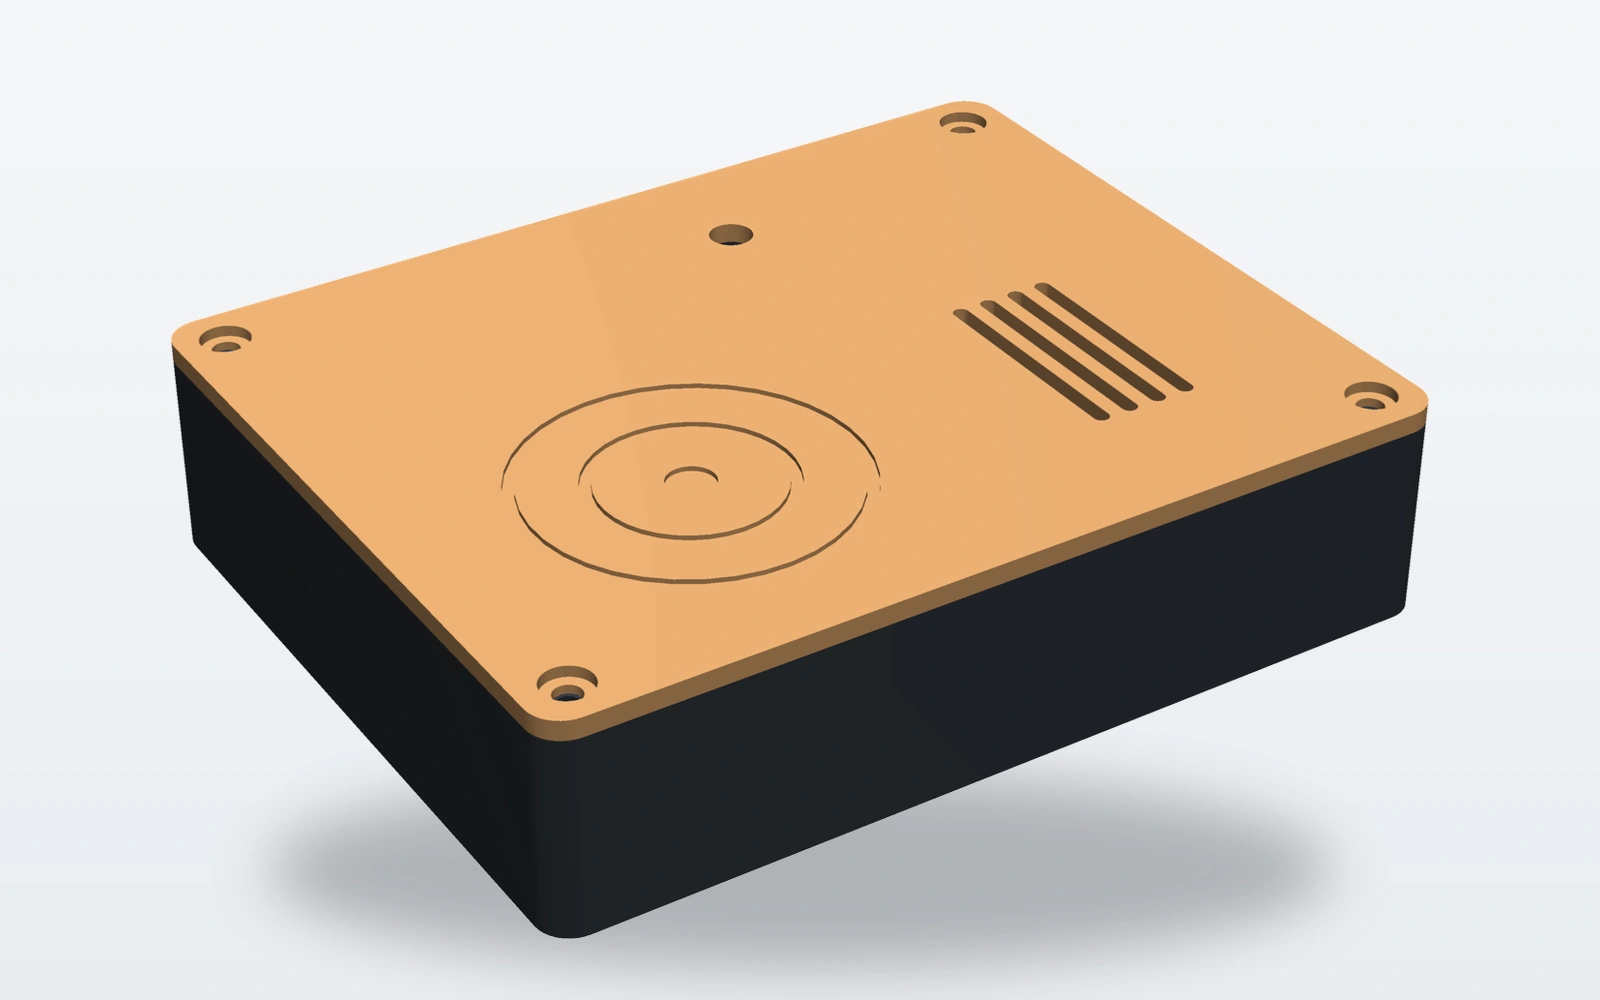
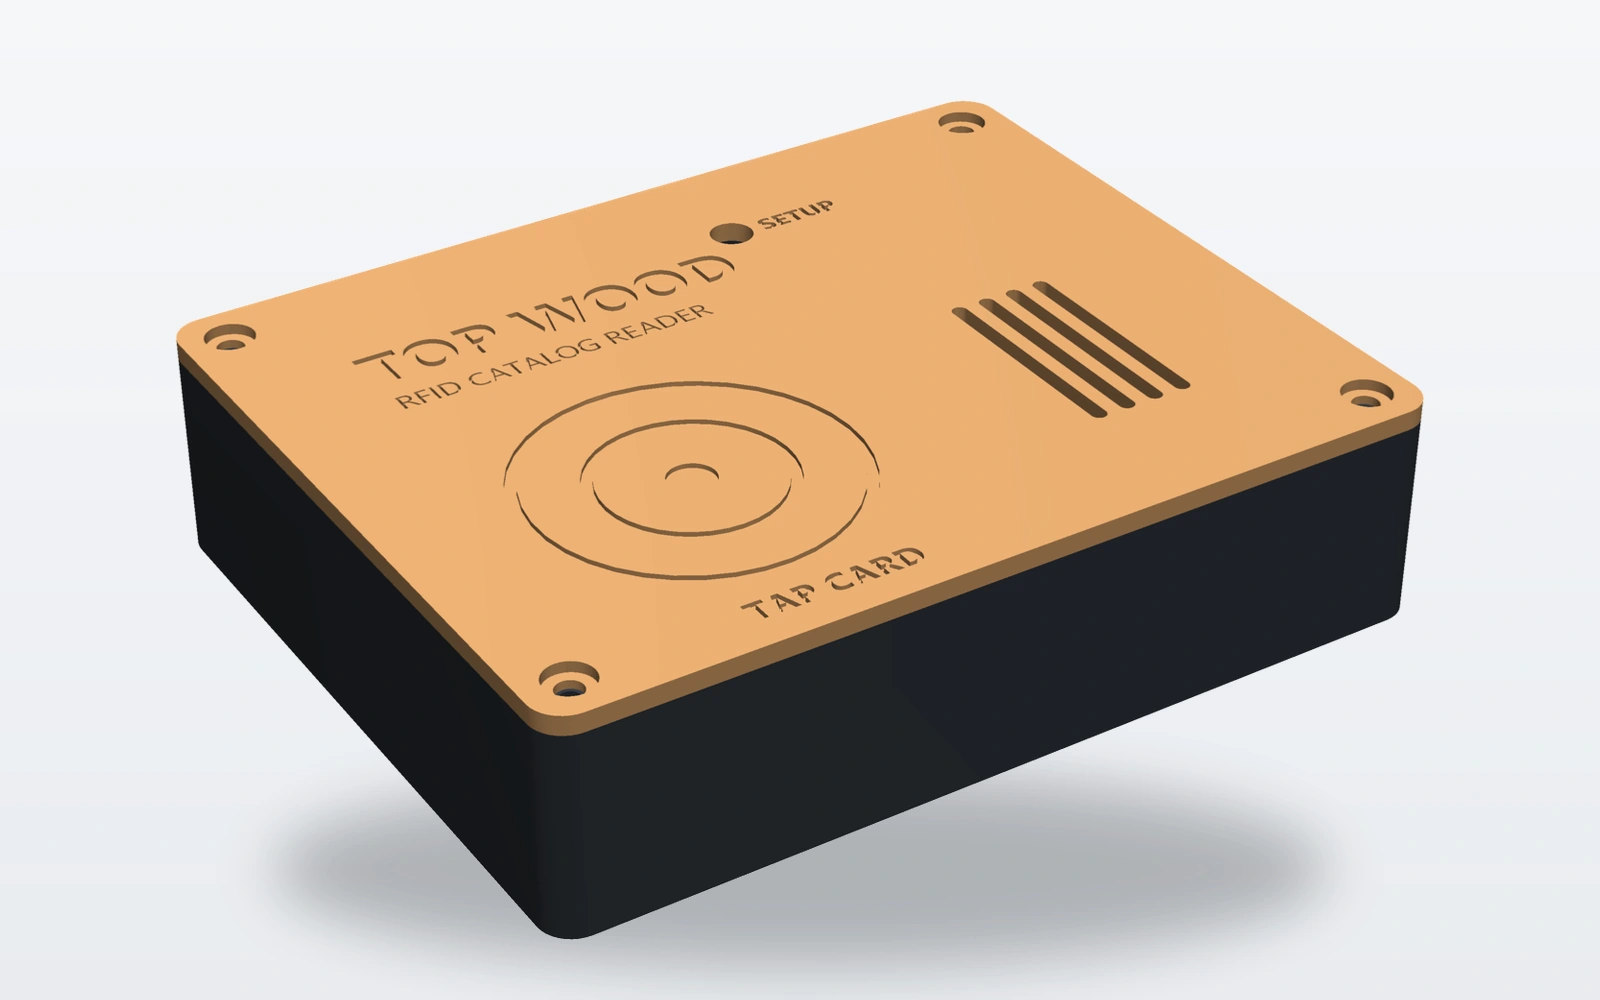
feat: Top Wood enclosure on real mounting holes, engraved lid, mounting view

diff --git a/data/public-image-manifest.generated.ts b/data/public-image-manifest.generated.ts
@@ -5909,37 +5909,37 @@ export const publicImageManifest: Record<string, PublicImageFamily> = {
       {
         "src": "/media/generated/responsive/media/portfolio/showcase/topwood-rfid/enclosure-closed/320.webp",
         "width": 320,
-        "bytes": 17268
+        "bytes": 18422
       },
       {
         "src": "/media/generated/responsive/media/portfolio/showcase/topwood-rfid/enclosure-closed/480.webp",
         "width": 480,
-        "bytes": 31380
+        "bytes": 34680
       },
       {
         "src": "/media/generated/responsive/media/portfolio/showcase/topwood-rfid/enclosure-closed/640.webp",
         "width": 640,
-        "bytes": 48584
+        "bytes": 54852
       },
       {
         "src": "/media/generated/responsive/media/portfolio/showcase/topwood-rfid/enclosure-closed/768.webp",
         "width": 768,
-        "bytes": 66290
+        "bytes": 75162
       },
       {
         "src": "/media/generated/responsive/media/portfolio/showcase/topwood-rfid/enclosure-closed/960.webp",
         "width": 960,
-        "bytes": 81392
+        "bytes": 94940
       },
       {
         "src": "/media/generated/responsive/media/portfolio/showcase/topwood-rfid/enclosure-closed/1280.webp",
         "width": 1280,
-        "bytes": 125074
+        "bytes": 148058
       },
       {
         "src": "/media/generated/responsive/media/portfolio/showcase/topwood-rfid/enclosure-closed/1600.webp",
         "width": 1600,
-        "bytes": 158786
+        "bytes": 192852
       }
     ],
     "role": "gallery-evidence",
@@ -5954,37 +5954,82 @@ export const publicImageManifest: Record<string, PublicImageFamily> = {
       {
         "src": "/media/generated/responsive/media/portfolio/showcase/topwood-rfid/enclosure-exploded/320.webp",
         "width": 320,
-        "bytes": 21758
+        "bytes": 22506
       },
       {
         "src": "/media/generated/responsive/media/portfolio/showcase/topwood-rfid/enclosure-exploded/480.webp",
         "width": 480,
-        "bytes": 41470
+        "bytes": 43404
       },
       {
         "src": "/media/generated/responsive/media/portfolio/showcase/topwood-rfid/enclosure-exploded/640.webp",
         "width": 640,
-        "bytes": 67068
+        "bytes": 70836
       },
       {
         "src": "/media/generated/responsive/media/portfolio/showcase/topwood-rfid/enclosure-exploded/768.webp",
         "width": 768,
-        "bytes": 92406
+        "bytes": 97254
       },
       {
         "src": "/media/generated/responsive/media/portfolio/showcase/topwood-rfid/enclosure-exploded/960.webp",
         "width": 960,
-        "bytes": 120444
+        "bytes": 127650
       },
       {
         "src": "/media/generated/responsive/media/portfolio/showcase/topwood-rfid/enclosure-exploded/1280.webp",
         "width": 1280,
-        "bytes": 192246
+        "bytes": 203614
       },
       {
         "src": "/media/generated/responsive/media/portfolio/showcase/topwood-rfid/enclosure-exploded/1600.webp",
         "width": 1600,
-        "bytes": 258000
+        "bytes": 275842
+      }
+    ],
+    "role": "gallery-evidence",
+    "sizesPreset": "gallery-thumb"
+  },
+  "/media/portfolio/showcase/topwood-rfid/enclosure-mounting.webp": {
+    "source": "/media/portfolio/showcase/topwood-rfid/enclosure-mounting.webp",
+    "width": 1600,
+    "height": 1000,
+    "avif": [],
+    "webp": [
+      {
+        "src": "/media/generated/responsive/media/portfolio/showcase/topwood-rfid/enclosure-mounting/320.webp",
+        "width": 320,
+        "bytes": 12940
+      },
+      {
+        "src": "/media/generated/responsive/media/portfolio/showcase/topwood-rfid/enclosure-mounting/480.webp",
+        "width": 480,
+        "bytes": 22660
+      },
+      {
+        "src": "/media/generated/responsive/media/portfolio/showcase/topwood-rfid/enclosure-mounting/640.webp",
+        "width": 640,
+        "bytes": 33632
+      },
+      {
+        "src": "/media/generated/responsive/media/portfolio/showcase/topwood-rfid/enclosure-mounting/768.webp",
+        "width": 768,
+        "bytes": 46102
+      },
+      {
+        "src": "/media/generated/responsive/media/portfolio/showcase/topwood-rfid/enclosure-mounting/960.webp",
+        "width": 960,
+        "bytes": 50714
+      },
+      {
+        "src": "/media/generated/responsive/media/portfolio/showcase/topwood-rfid/enclosure-mounting/1280.webp",
+        "width": 1280,
+        "bytes": 74732
+      },
+      {
+        "src": "/media/generated/responsive/media/portfolio/showcase/topwood-rfid/enclosure-mounting/1600.webp",
+        "width": 1600,
+        "bytes": 86046
       }
     ],
     "role": "gallery-evidence",
@@ -5999,37 +6044,37 @@ export const publicImageManifest: Record<string, PublicImageFamily> = {
       {
         "src": "/media/generated/responsive/media/portfolio/showcase/topwood-rfid/enclosure-open/320.webp",
         "width": 320,
-        "bytes": 26778
+        "bytes": 26688
       },
       {
         "src": "/media/generated/responsive/media/portfolio/showcase/topwood-rfid/enclosure-open/480.webp",
         "width": 480,
-        "bytes": 50962
+        "bytes": 50802
       },
       {
         "src": "/media/generated/responsive/media/portfolio/showcase/topwood-rfid/enclosure-open/640.webp",
         "width": 640,
-        "bytes": 82896
+        "bytes": 82438
       },
       {
         "src": "/media/generated/responsive/media/portfolio/showcase/topwood-rfid/enclosure-open/768.webp",
         "width": 768,
-        "bytes": 112958
+        "bytes": 111596
       },
       {
         "src": "/media/generated/responsive/media/portfolio/showcase/topwood-rfid/enclosure-open/960.webp",
         "width": 960,
-        "bytes": 148834
+        "bytes": 147552
       },
       {
         "src": "/media/generated/responsive/media/portfolio/showcase/topwood-rfid/enclosure-open/1280.webp",
         "width": 1280,
-        "bytes": 236864
+        "bytes": 234812
       },
       {
         "src": "/media/generated/responsive/media/portfolio/showcase/topwood-rfid/enclosure-open/1600.webp",
         "width": 1600,
-        "bytes": 321468
+        "bytes": 318932
       }
     ],
     "role": "gallery-evidence",

diff --git a/data/portfolio.ts b/data/portfolio.ts
@@ -235,7 +235,7 @@ export const projects: Project[] = [
     slug: "topwood-rfid-catalog", title: "Top Wood RFID Catalog", category: "Engineering & IoT", year: "2026",
     video: { src: asset("/media/portfolio/showcase/topwood-rfid/highlight.mp4"), poster: asset("/media/portfolio/showcase/topwood-rfid/cover.webp"), caption: "Top Wood RFID Catalog: one-minute highlight" },
     role: "Embedded Systems Engineer | ESP8266 Firmware | PCB Design | Web Portal",
-    description: "Built the RFID system behind Top Wood's LTOP Interactive Catalog. A custom ESP8266 + RC522 board reads product cards and talks to the catalog over the local Wi-Fi network, so tapping a card opens that product straight away. The board serves its own setup portal for reading, writing and verifying cards and for Wi-Fi setup, and ships with a one-click Windows installer. I also designed a 3D-printable two-part enclosure for the board in SolidWorks, with a card target over the RC522 antenna, vents over the buck converter and wire exits beside the screw terminals.",
+    description: "Built the RFID system behind Top Wood's LTOP Interactive Catalog. A custom ESP8266 + RC522 board reads product cards and talks to the catalog over the local Wi-Fi network, so tapping a card opens that product straight away. The board serves its own setup portal for reading, writing and verifying cards and for Wi-Fi setup, and ships with a one-click Windows installer. I also designed a 3D-printable two-part enclosure for the board in SolidWorks: the board screws onto four standoffs at its real mounting holes, the lid carries the Top Wood name and a tap-card target over the RC522 antenna, and every KiCad 3D model was checked for clearance.",
     outcome: "Tap a card, the product opens in the catalog; cards written and verified in two taps",
     tags: ["ESP8266", "RC522 RFID", "C++", "KiCad", "SolidWorks", "Node.js", "Web portal", "Figma"],
     image: asset("/media/portfolio/showcase/topwood-rfid/board-render.webp"),
@@ -244,9 +244,10 @@ export const projects: Project[] = [
       {src: asset("/media/portfolio/showcase/topwood-rfid/schematic.webp"), alt: "KiCad schematic of the Top Wood main board: 12 V input, LM2596 buck, AMS1117 3.3 V regulator, NodeMCU and RC522 header"},
       {src: asset("/media/portfolio/showcase/topwood-rfid/pcb-layout.webp"), alt: "KiCad PCB layout of the Top Wood main board, fully routed with power traces sized for the buck module"},
       {src: asset("/media/portfolio/showcase/topwood-rfid/pcb-3d.webp"), alt: "KiCad 3D view of the Top Wood main board with the NodeMCU, RC522 reader and LM2596 module fitted"},
-      {src: asset("/media/portfolio/showcase/topwood-rfid/enclosure-exploded.webp"), alt: "Exploded view of the SolidWorks enclosure: wood-tone lid with RFID card target and vents above the charcoal base holding the board"},
-      {src: asset("/media/portfolio/showcase/topwood-rfid/enclosure-closed.webp"), alt: "Closed SolidWorks enclosure for the Top Wood board, 118 x 94 x 28 mm, with a card target over the RC522 antenna"},
-      {src: asset("/media/portfolio/showcase/topwood-rfid/enclosure-open.webp"), alt: "Open enclosure base with the board clamped on corner pedestals, screw bosses and wire exits beside the screw terminals"},
+      {src: asset("/media/portfolio/showcase/topwood-rfid/enclosure-closed.webp"), alt: "SolidWorks enclosure for the Top Wood reader, 118 x 94 x 29 mm: wood-tone lid engraved TOP WOOD with a tap-card target, setup button access and vents"},
+      {src: asset("/media/portfolio/showcase/topwood-rfid/enclosure-exploded.webp"), alt: "Exploded view: lid lifted above the charcoal base holding the board, with every KiCad 3D model fitted"},
+      {src: asset("/media/portfolio/showcase/topwood-rfid/enclosure-mounting.webp"), alt: "Empty base: four M3 standoffs on the board's real mounting holes for heat-set inserts, four corner bosses for the lid screws, and wire exits"},
+      {src: asset("/media/portfolio/showcase/topwood-rfid/enclosure-open.webp"), alt: "Board screwed onto the standoffs inside the base, 2.2 mm below the lid, wires leaving beside the screw terminals"},
       {src: asset("/media/portfolio/showcase/topwood-rfid/portal.webp"), alt: "Top Wood setup portal on a tablet: card reader and card writer tabs"}
     ],
     links: [
